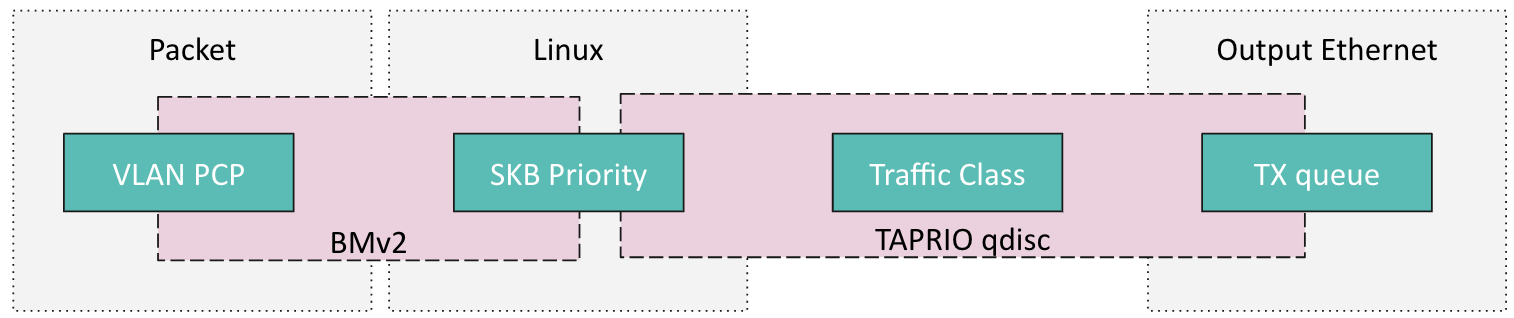
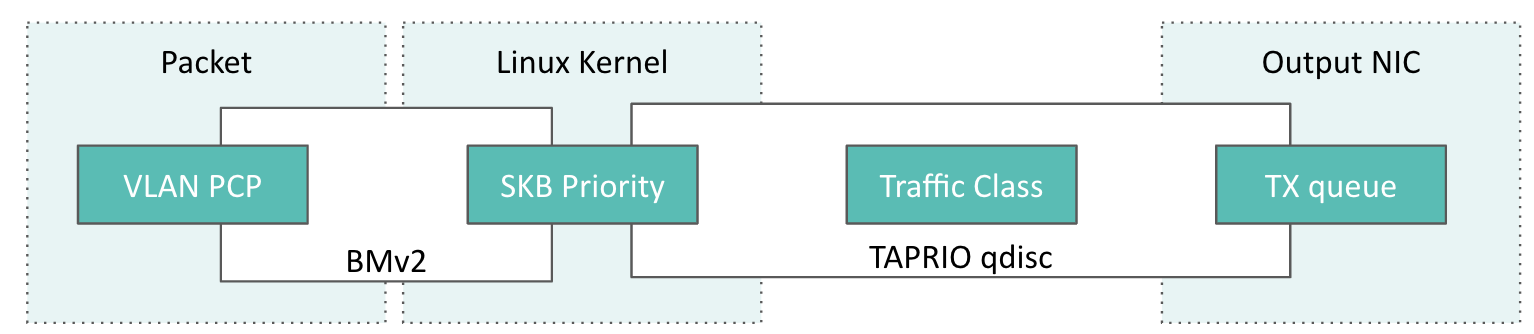
recolor images, improve text

diff --git a/README.md b/README.md
@@ -1,26 +1,34 @@
-# A P4-Programmable Software TSN Switch for Deterministic Networking
+# Building a Programmable Software TSN Switch with P4
 
-In this post, we present a software TSN switch which is programmable using P4 language to control its behaviour from the data plane at runtime.
+Time-Sensitive Networking (TSN) enhances traditional Ethernet with capabilities for reliable and predictable communication. It's widely used in systems where precise timing and low latency are critical, such as industrial automation, automotive networks, and professional media streaming.
 
-# tl;dr - Takeaway Messages
+One key component of TSN is the Time-Aware Shaper (TAS), which schedules traffic based on time slots to ensure that critical data is delivered exactly when needed. Traditionally, implementing TSN features like TAS required specialized hardware. However, recent developments in the Linux kernel have introduced native support for some TSN capabilities, such as [TAPRIO](https://www.man7.org/linux/man-pages/man8/tc-taprio.8.html) (Time-Aware Priority Scheduler).
 
-- The Time-Aware Priority shaper (TAPRIO) is one technology to implement the Time-Aware Shaper (TAS) on Linux software bridges.
-- Data plane is programable using P4 language
-- The combination of TAPRIO qdsic and P4 can provide a flexiblility on TSN
+This blog explores how to build a software-based TSN switch that's not only fully functional but also programmable using the P4 language. This combination brings the benefits of deterministic networking to a flexible, software-defined environment.
+
+
+# Takeaway Messages
+
+- A fully software-based TSN switch is now possible using Linux's built-in TSN capabilities. This opens up opportunities for testing and prototyping TSN features without requiring specialized hardware.
+
+- By combining Linux's traffic shaping features with P4 programmability, we can create a TSN switch that reacts more intelligently and quickly to changing network conditions, offering better performance and control than traditional setups.
+
+
 
 # Motivation
 
 ### Motivation for Building a Programmable TSN Switch  
 
-Time-Sensitive Networking (TSN) is a crucial technology for achieving deterministic communication in various domains, including industrial automation, automotive networks, and telecommunications. However, traditional TSN implementations typically rely on hardware-specific devices, limiting their flexibility and adaptability.
+TSN has traditionally relied on dedicated hardware that supports precise timing and scheduling. While powerful, such hardware is often costly and lacks flexibility. In response, recent versions of the Linux kernel have introduced support for features like TAPRIO qdisc, which allow time-aware traffic shaping in software.
 
-To bridge this gap, the Linux kernel has recently integrated several TSN-related features, such as the Time-Aware Traffic Shaper (TAPRIO) qdisc, enabling software-based TSN capabilities. By leveraging these features, it is possible to construct a software-based TSN bridge, as demonstrated in our previous [blog post](https://blog.deterministic6g.eu/posts/2024/11/02/software_tsn_switch.html). However, this software bridge comes with some limitations:
+Building on this, our earlier [blog post](https://blog.deterministic6g.eu/posts/2024/11/02/software_tsn_switch.html) showed how to configure a Linux bridge as a basic TSN switch. However, that approach had some limitations:
 
-- Cumbersome: It relies on additional components, such as `qdisc` and `tc` filters, to classify traffic, making configuration and management.
+- Cumbersome configuration: It relies on auxiliary components, like `qdisc` and `tc` filters, to classify traffic, making configuration and management.
 
-- Inflexibility: The bridge's behavior is controlled via the `tc` tool from the control plane, which may introduce delays when rapid traffic adaptation is required.
+- Limited flexibility: The bridge's behavior is controlled via the `tc` tool from the control plane, which may introduce delays when rapid traffic adaptation is required.
 
-In this blog post, we introduce a software TSN switch programmable with P4, combining the deterministic features of TSN with the flexibility and programmability of P4-enabled data planes. Our switch is built on Linux’s TAPRIO qdisc, which is essential for traffic shaping in TSN environments. By integrating P4 programmability, the switch enables dynamic traffic management, including real-time packet classification, adaptive scheduling, and in-depth network monitoring. This approach provides a more agile, scalable, and customizable solution for modern deterministic networking needs.
+
+To overcome these limitations, we introduce a programmable software TSN switch built on Linux's existing TSN features, with added programmability using the P4 language. This allows dynamic, real-time control of packet behavior directly from the data plane.
 
 
 # Background
@@ -42,7 +50,7 @@ At the core of this paradigm is, a domain-specific language designed for program
 
 P4 programs are compiled to run on a variety of targets, including software switches (e.g., BMv2), programmable hardware switches based on FPGAs, or ASICs. By decoupling packet processing logic from underlying hardware, P4 empowers researchers and network engineers to rapidly prototype and deploy new networking functionalities, thereby accelerating the evolution of modern, intelligent networks.
 
-# A P4-Programmable Software TSN switch
+# A P4-based Programmable Software TSN switch
 
 The P4 software switch (BMv2) is the key component, serving as the data plane responsible for packet processing. By utilizing the P4 programming language, the switch allows users to define at runtime how packets are processed, classified, forwarded them to appropriate qdisc ports. This programmability removes the dependency on manual traffic control commands, e.g., `tc`, enabling flexible and runtime adjustments. 
 
@@ -293,6 +301,6 @@ We obtain the following figure which shows the arrival time of packets at the li
 
 Each packet is drawn by a vertical line. The traffic throughput of each traffic class is 1Mbps with total 789 packets. 
 
-We can see that time-aware shaping is effective and works correctly. During the first 3 seconds, the two traffic classes, TC0 and TC1, are generated at the same time but the latter is available on its timeslots of 50 ms for each 150 ms as we setup in the TAPRIO qdisc above. Once TC0 is ended after 3 seconds, its timeslots are not used while TC1 still continues using its timeslots.
-After 1 second, TC1 uses all available timeslots.
+We can see that time-aware shaping is effective and works correctly. During the first 3 seconds, the two traffic classes, TC0 and TC1, are generated at the same time but the latter is available on its time slots of 50 ms for each 150 ms as we setup in the TAPRIO qdisc above. Once TC0 is ended after 3 seconds, its time slots are not used while TC1 still continues using its time slots. The egress link is used only 1/3 capability during this interval.
+After 1 second, TC1 uses all available time slots.
  
